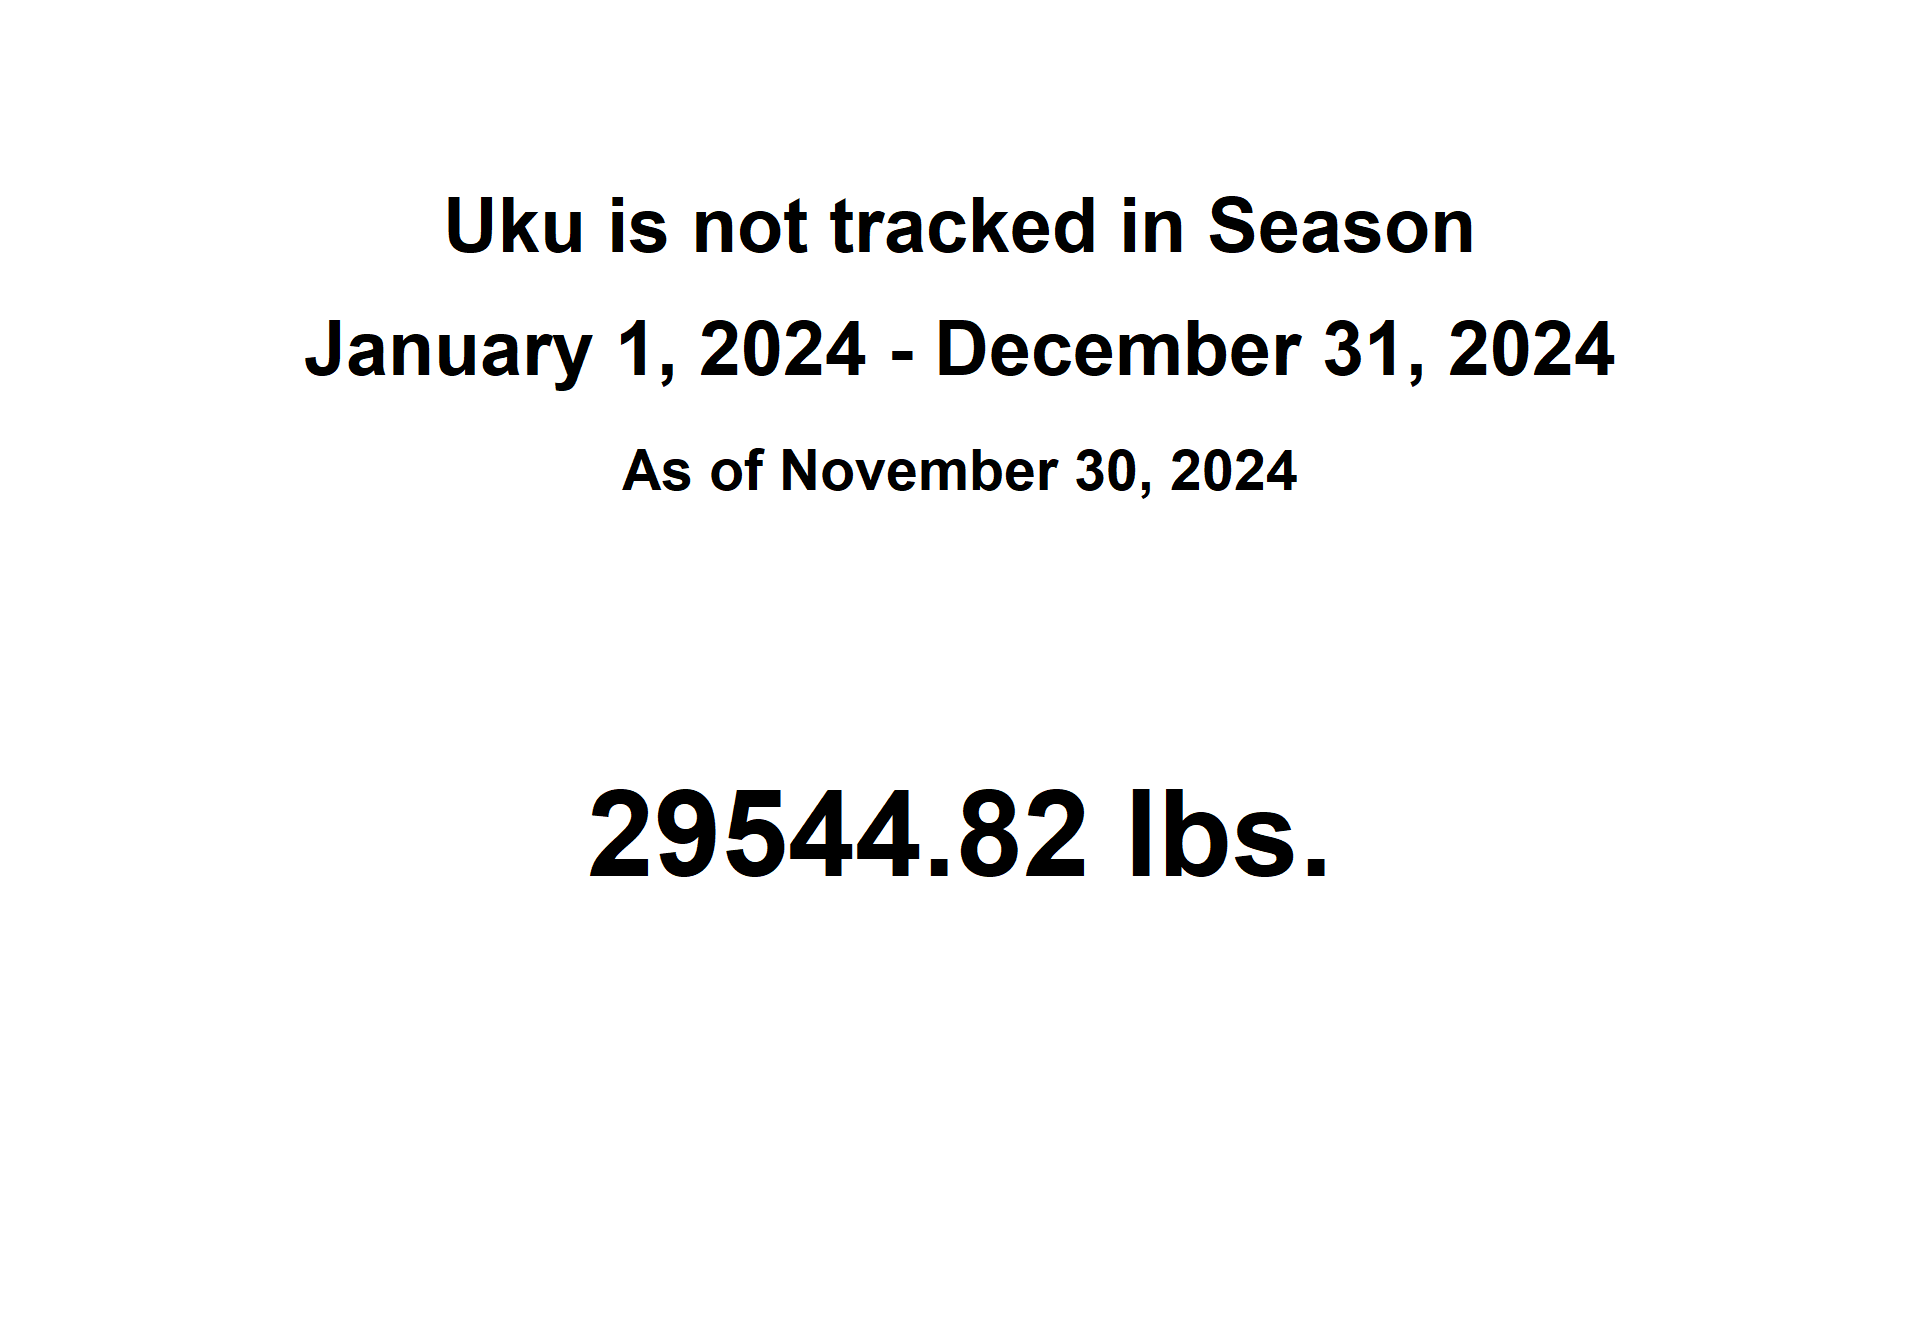
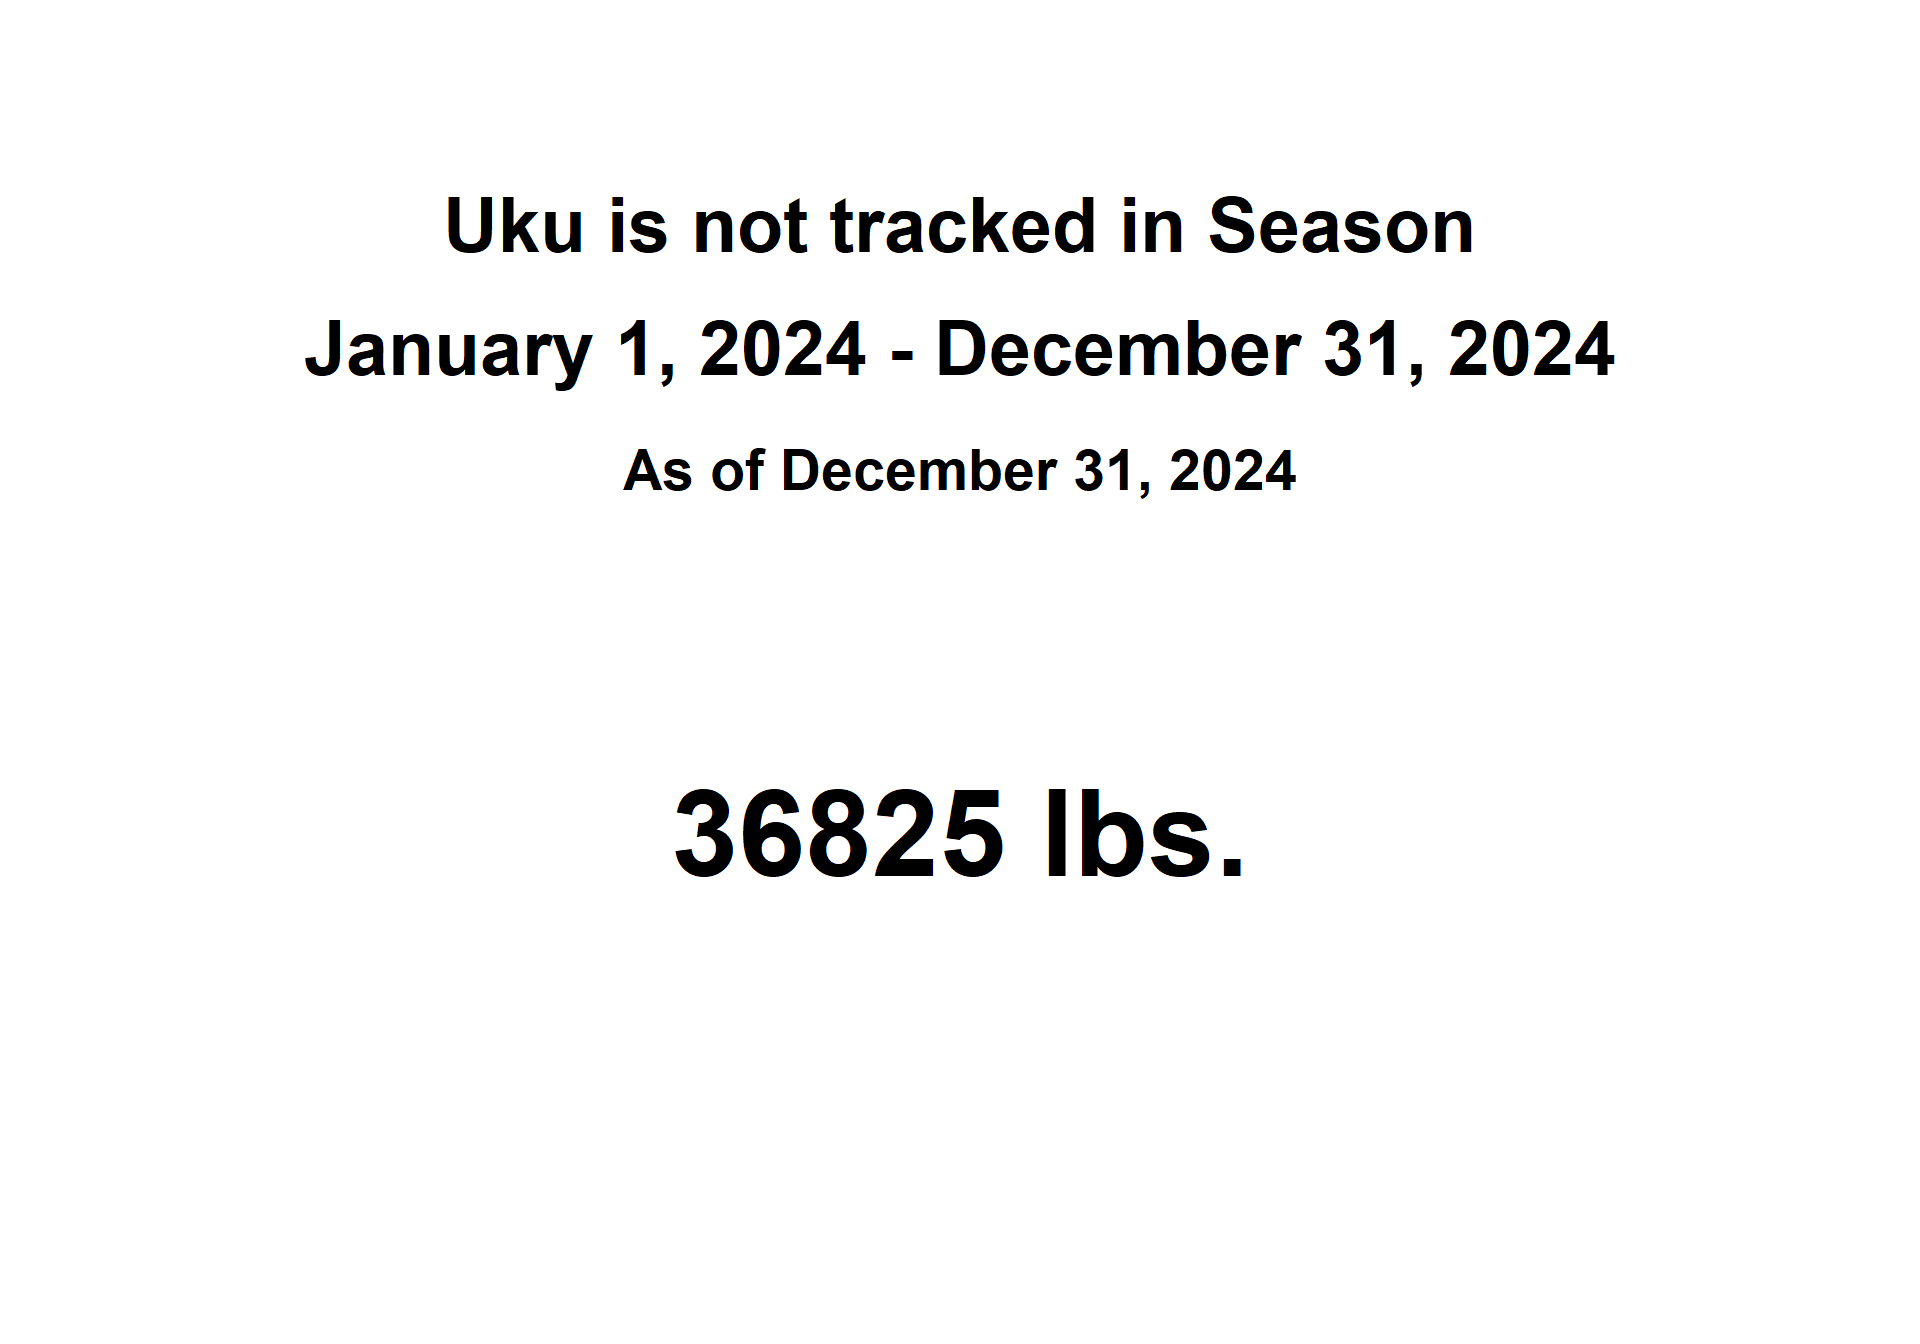
Update dashboard to reflect data up to Dec. 2024

Changed region(s): [[0.3125, 0.5625, 0.6875, 0.6562], [0.3438, 0.3125, 0.5938, 0.375], [0.625, 0.3438, 0.6562, 0.375]]

diff --git a/Uku_KonaCrab_dashboard.html b/Uku_KonaCrab_dashboard.html
@@ -651,7 +651,7 @@ window.document.addEventListener("DOMContentLoaded", function (event) {
     <div class="nav-footer-left">
       <ul class="footer-items list-unstyled">
     <li class="nav-item">
- Uploaded on December 10, 2024
+ Uploaded on January 08, 2025
   </li>  
 </ul>
     </div>   

diff --git a/deep_seven_dashboard.html b/deep_seven_dashboard.html
@@ -667,7 +667,7 @@ window.document.addEventListener("DOMContentLoaded", function (event) {
     <div class="nav-footer-left">
       <ul class="footer-items list-unstyled">
     <li class="nav-item">
- Uploaded on December 10, 2024
+ Uploaded on January 08, 2025
   </li>  
 </ul>
     </div>   

diff --git a/index.html b/index.html
@@ -654,7 +654,7 @@ window.document.addEventListener("DOMContentLoaded", function (event) {
     <div class="nav-footer-left">
       <ul class="footer-items list-unstyled">
     <li class="nav-item">
- Uploaded on December 11, 2024
+ Uploaded on January 08, 2025
   </li>  
 </ul>
     </div>   

diff --git a/kala_uhu_dashboard.html b/kala_uhu_dashboard.html
@@ -651,7 +651,7 @@ window.document.addEventListener("DOMContentLoaded", function (event) {
     <div class="nav-footer-left">
       <ul class="footer-items list-unstyled">
     <li class="nav-item">
- Uploaded on December 10, 2024
+ Uploaded on January 02, 2025
   </li>  
 </ul>
     </div>   
